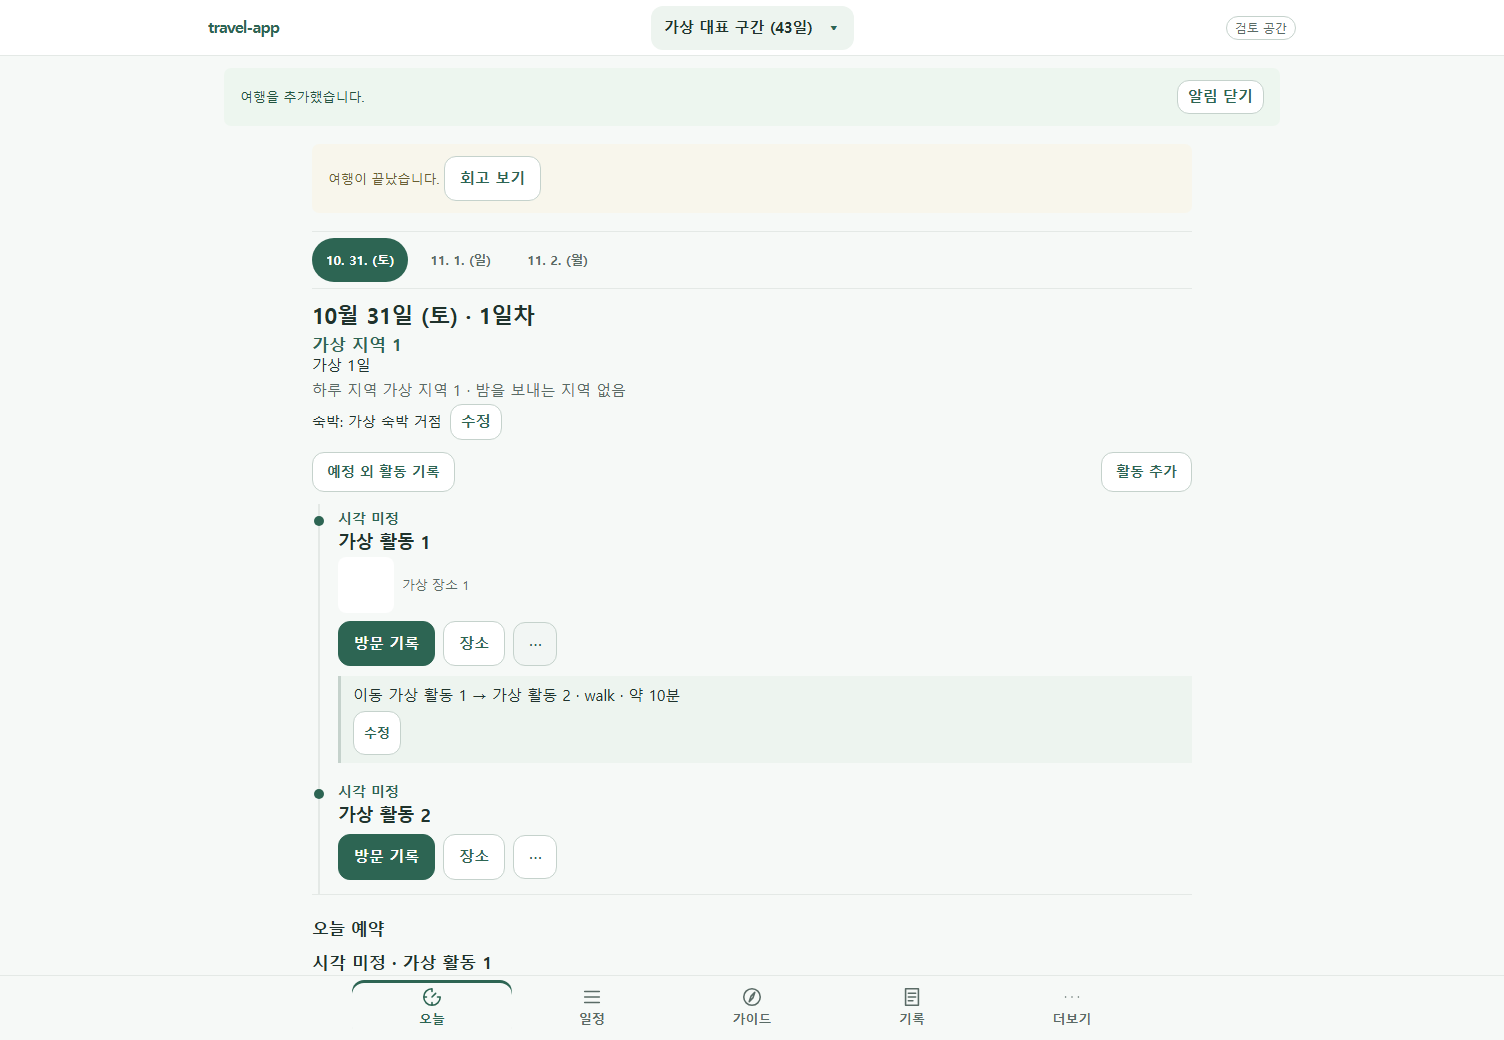
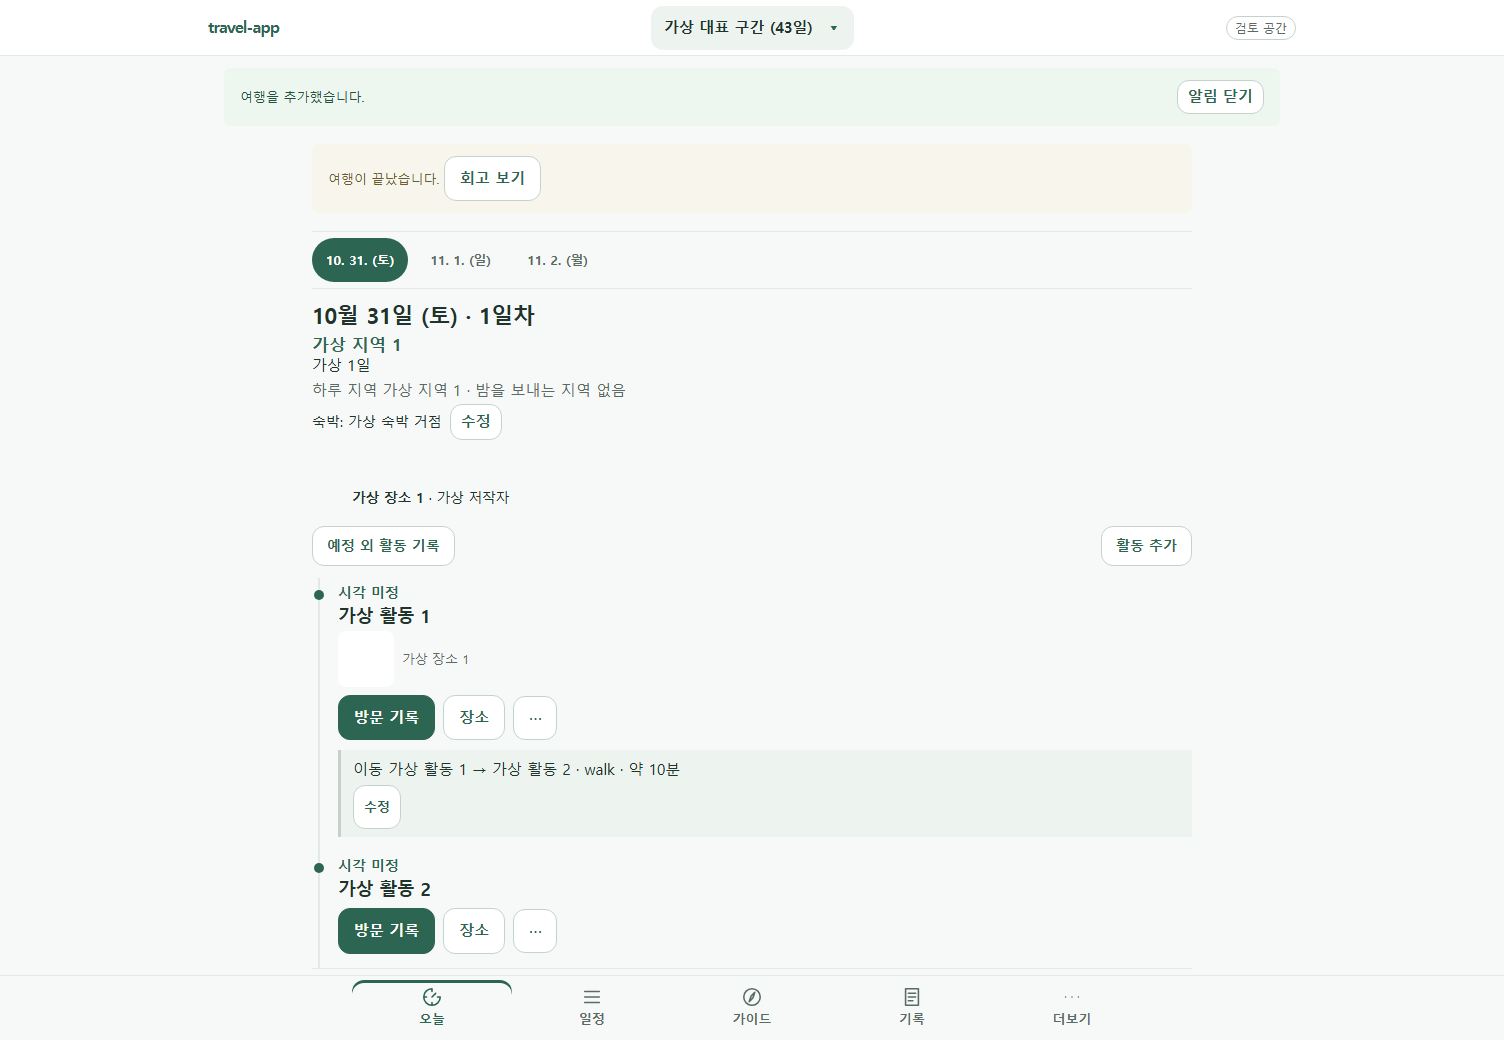
docs: C-15 R1 result and refreshed screenshots

diff --git a/docs/claude-task-c15-result.md b/docs/claude-task-c15-result.md
@@ -1,7 +1,7 @@
 # C-15 결과 — 파리 여행 읽기 화면 정리
 
-2026-11-05 · 브랜치 `codex/c15-paris-reading`(main `18bb853` 기준) · 상태: **구현 / 최종 소스 전체 E2E 재실행 필요 / Codex 검토 대기 / 사용자 확인 대기**
-표시만 바꿨다. 저장 데이터·스키마·저장 명령·어댑터·패키지 변경 0건. main 병합·배포 안 함.
+2026-11-05 · 브랜치 `codex/c15-paris-reading`(main `18bb853` 기준) · 상태: **구현 / Codex 조건부 통과 · R1 반영 / 사용자 지시로 main 병합·배포 / 사용자 화면 확인 대기**
+표시만 바꿨다. 저장 데이터·스키마·저장 명령·어댑터·패키지 변경 0건. 
 
 ## 변경 요약
 
@@ -16,9 +16,10 @@
 
 ## 판단이 필요한 항목
 
-1. **`지역 상세 안내` 이름**: 지시서 예시는 `상점·영업 안내`였으나, 본문 9건을 대표 표본(Paris)으로 읽으면 핵심 판단·일정·숙소·이동·먹거리를 담은 지역 장(章)이라 예시를 따르지 않았다. 사용자 확인 필요.
+1. **`지역 상세 안내` 이름**: 지시서 예시는 `상점·영업 안내`였으나, 본문 9건을 대표 표본(Paris)으로 읽으면 핵심 판단·일정·숙소·이동·먹거리를 담은 지역 장(章)이라 예시를 따르지 않았다. 사용자가 승인했다.
 2. **대표 사진 순위**: 지시서 순서를 그대로 쓰면 일정 문구에 이름이 나오는 빵집이 관광 장소를 이긴다. 그래서 관광 장소를 먼저 두었다. ① 이름 전체가 나오는 관광 장소 ② 고유한 낱말만 나오는 관광 장소(흔한 낱말·도시 이름 제외) ③ 그 밖의 관광 장소 ④ 이름 전체가 나오는 이동·식사·숙소 ⑤ 나머지. 같은 순위는 저장 순서.
-3. **`사진 N장` 띠**: 사진이 2장 이상일 때만 보인다. 1장인 날은 대표 사진만 보인다.
+3. **결정 반영(사용자, 2026-11-05)**: `지역 상세 안내` 이름 승인. 대표 사진과 `사진 N장` 띠를 활동 목록 위로 옮겼다.
+4. **`사진 N장` 띠**: 사진이 2장 이상일 때만 보인다. 1장인 날은 대표 사진만 보인다.
 
 ## Q1 전수 확인
 
@@ -34,21 +35,25 @@
 
 ## 검사
 
-**전체 E2E는 최종 소스에서 끝까지 돌지 못했다.** 마지막 소스 수정 2건(대표 사진 캡션의 장소 이름 중복 제거, `⋯ 편집` 단추 여백)은 E2E 미검증이다.
-
 | 실행 | 소스 | 결과 |
 |---|---|---|
-| `pnpm run check`(포맷·lint·단위·빌드) | 최종 | 통과. 단위 340건 통과, 1건 건너뜀. 새 시험 `tests/c15-reading.test.ts` 11건 |
-| `check:deferred` `06-40-30` | 수정 2건 직전 | exit 0(check·test:e2e·check:pilot). E2E 171건 통과, 5건 건너뜀, 실패 0 |
-| `check:deferred` `06-52-59` | 최종 | `check`에서 중단. `tests/ai-v2.test.ts` 1건 실패(아래 불안정 시험), E2E 미실행 |
-| `check:deferred` `06-54-52` | 최종 | `check` 통과. **E2E 91건 통과, 23건 실패, 59건 미실행**, `check:pilot` 미실행. 단언 실패는 0건이고 실패 23건 모두 `worker process exited unexpectedly (code=3221225794)` 22건과 `Target crashed` 1건. 실행 중 시스템 메모리가 부족해 도구가 백그라운드 작업을 중단했다(직후 여유 2.1GB / 15.7GB) |
-| 실제 패키지 대조 2건(모바일·데스크톱) | 수정 2건 직전 | 통과. 수정 2건은 대표 사진 고르기 규칙을 바꾸지 않아 대조표 값은 그대로다 |
+| `pnpm run check` | 최종(R1 포함) | 통과. 단위 342건 통과, 1건 건너뜀. 새 시험 `tests/c15-reading.test.ts` 13건 |
+| `ui-c15`·`guides`·`content` E2E + 실제 패키지 대조 2건 | 최종(R1 포함) | 44건 통과, 실패 0 |
+| 실제 패키지 대조, 개발 서버 5173(StrictMode, 모바일) | 최종(R1 포함) | 통과 |
+| `check:deferred` `07-35-26` | 대표 사진 이동 뒤, R1 직전 | exit 0. E2E 171건 통과, 5건 건너뜀, 실패 0 |
 
-메모리가 확보된 뒤 `pnpm run check:deferred`를 다시 돌려야 한다. `docs/design/ui-c15/` 스크린샷도 수정 2건 직전 빌드이므로 `UI_C15_SHOTS=1`로 다시 찍어야 한다.
+R1 뒤 전체 E2E는 Codex 지시대로 GitHub CI 결과로 갈음한다. 이전 메모리 부족 중단(`06-54-52`, 워커 비정상 종료 23건)은 메모리를 확보한 재실행으로 해소됐다.
 
 기존 시험 변경:
 - 편집 단추가 메뉴로 들어가 `guideMenu` 도우미로 메뉴 열기 단계를 추가: `guides`·`content`·`field-records`·`retrospective`·`c07-sapporo`·`ui-u3`. 단언 자체는 그대로다.
 - **규칙이 바뀌어 단언을 바꾼 곳 3건**: `c14-display-names`의 `Commercial Guide Module` 라벨 2줄, `ui-c14` P3(단추 이름 전역 유일 → 지역 절이 서로 다르고 단추는 `지역 상세 안내`), `ui-c14` 실제 패키지 시험(전역 유일 → 절 안 유일). 지역 접두를 빼라는 지시의 결과이므로 Codex 검토 때 함께 확인 바람.
+
+## Codex 검토 R1 반영
+
+- **R1-a 한국어 역 이름**: `역\b`는 한글 뒤에서 일치하지 않았다. `역(?![가-힣])`로 고쳤다. `삿포로역`·`오타루역 앞`·`JR 삿포로역 남쪽 출구`는 이동, `역사 박물관`은 관광 장소(단위 시험).
+- **R1-b 목차 이동 대상**: 렌더 중 세던 번호와 정규식 추출을 없앴다. 목차와 머리말 id를 모두 같은 `remark` 해석 결과에서 얻는다. id는 해석 단계 플러그인(`remarkHeadingIds`)이 붙이므로 렌더 횟수와 무관하고, 인용·목록 안 머리말과 밑줄식 머리말도 같은 순서로 센다. 이미 번들에 있던 `remark-parse`·`unified`를 직접 의존성으로 올렸다.
+- **R1-b 확인**: 실제 패키지 지역 가이드 9개 전부에서 목차 단추마다 대상 머리말이 있고 글자가 같다(Barcelona 13·Girona 14·Nice 13·Verdon 5·Aix 14·Luberon 12·Avignon 13·Lyon 13·Paris 10). 개발 서버(StrictMode)에서는 수동 대신 같은 시험을 `C15_BASE_URL`로 돌려 확인했다.
+- **R1-c 스크린샷**: `docs/design/ui-c15/` 6장을 최종 빌드로 다시 찍었다. 가상 표본의 사진은 1×1 흰색 이미지라 사진 자리가 비어 보인다. 실제 사진은 커밋하지 않는 `local-data/c15-real/q3-*.png`에서 확인했다.
 
 ## 실제 패키지 대조 (읽기 전용)
 
@@ -115,7 +120,4 @@
 
 - 미검증: 실기기, 사용자의 평소 공간 화면. 실제 패키지 확인은 검토 공간에서 한 것이다.
 - 어댑터 v5 후보: 메모 본문의 원천 키, 빵집을 숙소 활동에 연결한 경우(9/26), 관광 장소 사진 없음.
-- 목차 번호는 `##`/`###` 줄 기준이다. 밑줄식 머리말(`===`)이 본문에 있으면 목차 이동 위치가 어긋날 수 있다. 실제 패키지 지역 가이드는 `#` 방식만 확인했다(Aix·Paris 표본).
-- 스크린샷: `docs/design/ui-c15/`(가상 표본).
-- 대표 사진 위치는 C-14까지와 같이 활동 목록 아래다. 날짜를 열면 활동 카드 썸네일이 먼저 보인다. 위로 올릴지는 사용자 확인 때 판단 바람.
 - 불안정 시험: `tests/ai-v2.test.ts`가 전체 실행 중 간헐 실패했다(시간 초과 1회, `expected validating to be failed` 1회). 단독·재실행은 통과. C-15가 건드리지 않은 파일이라 수정하지 않았다.
